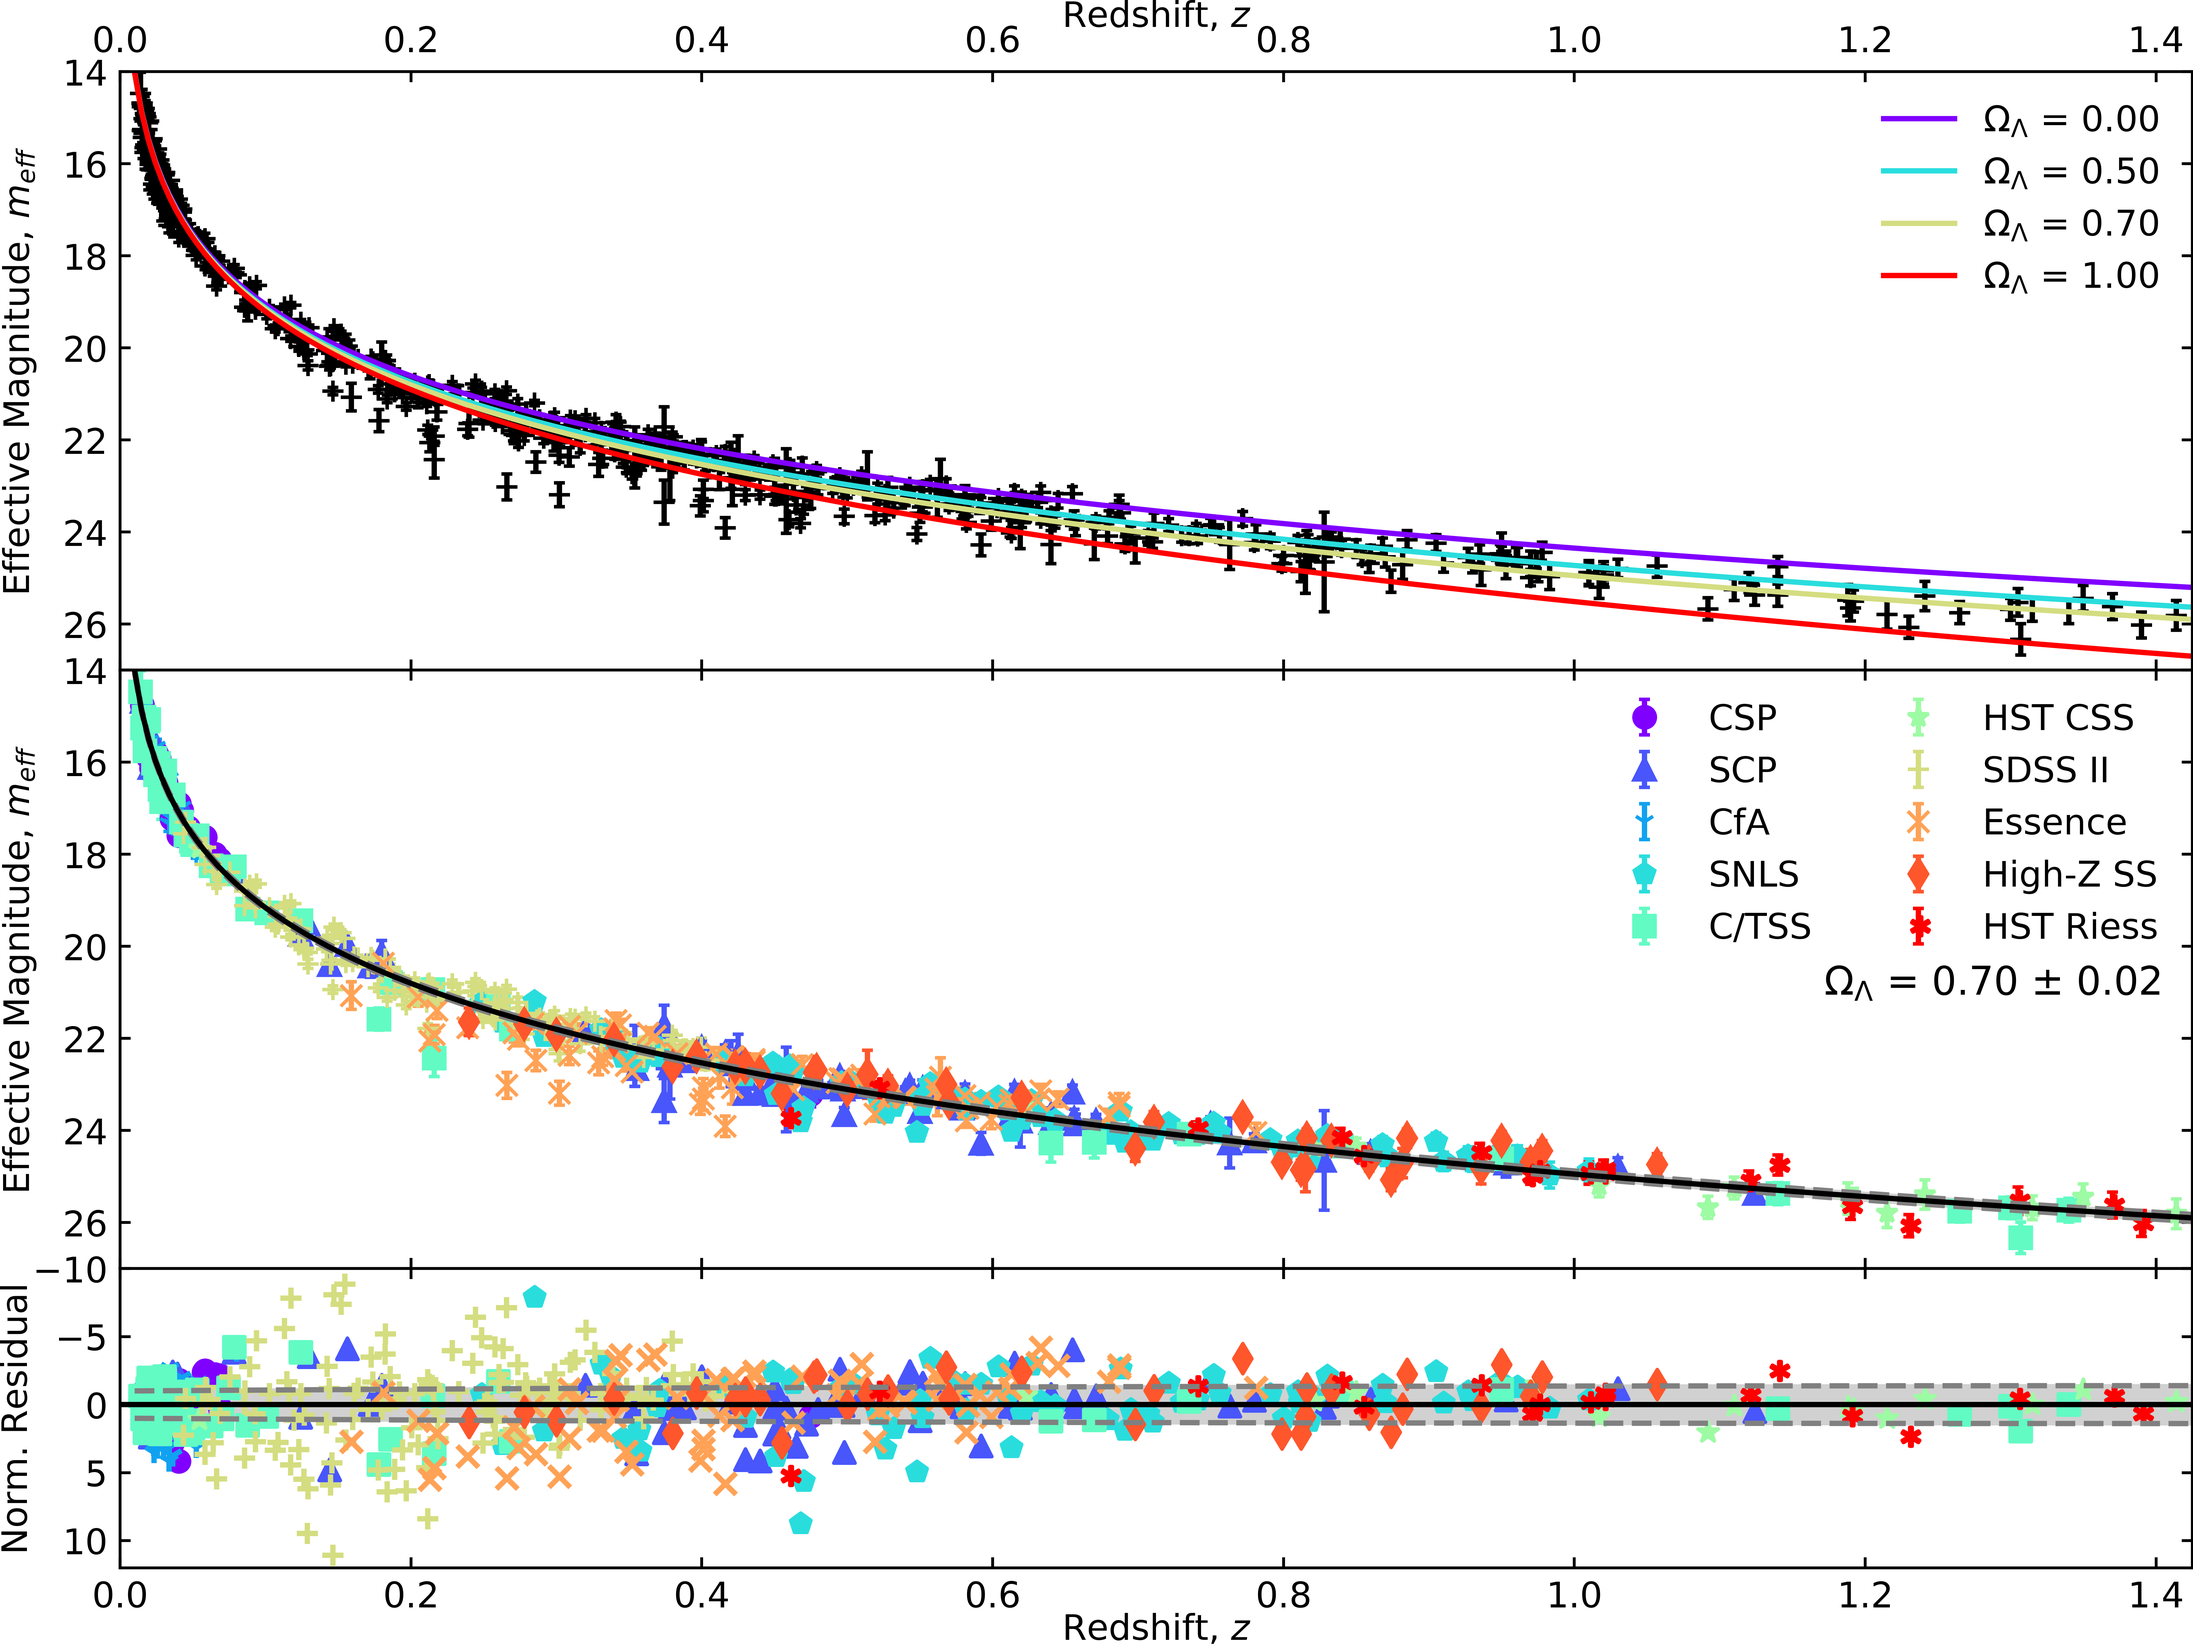
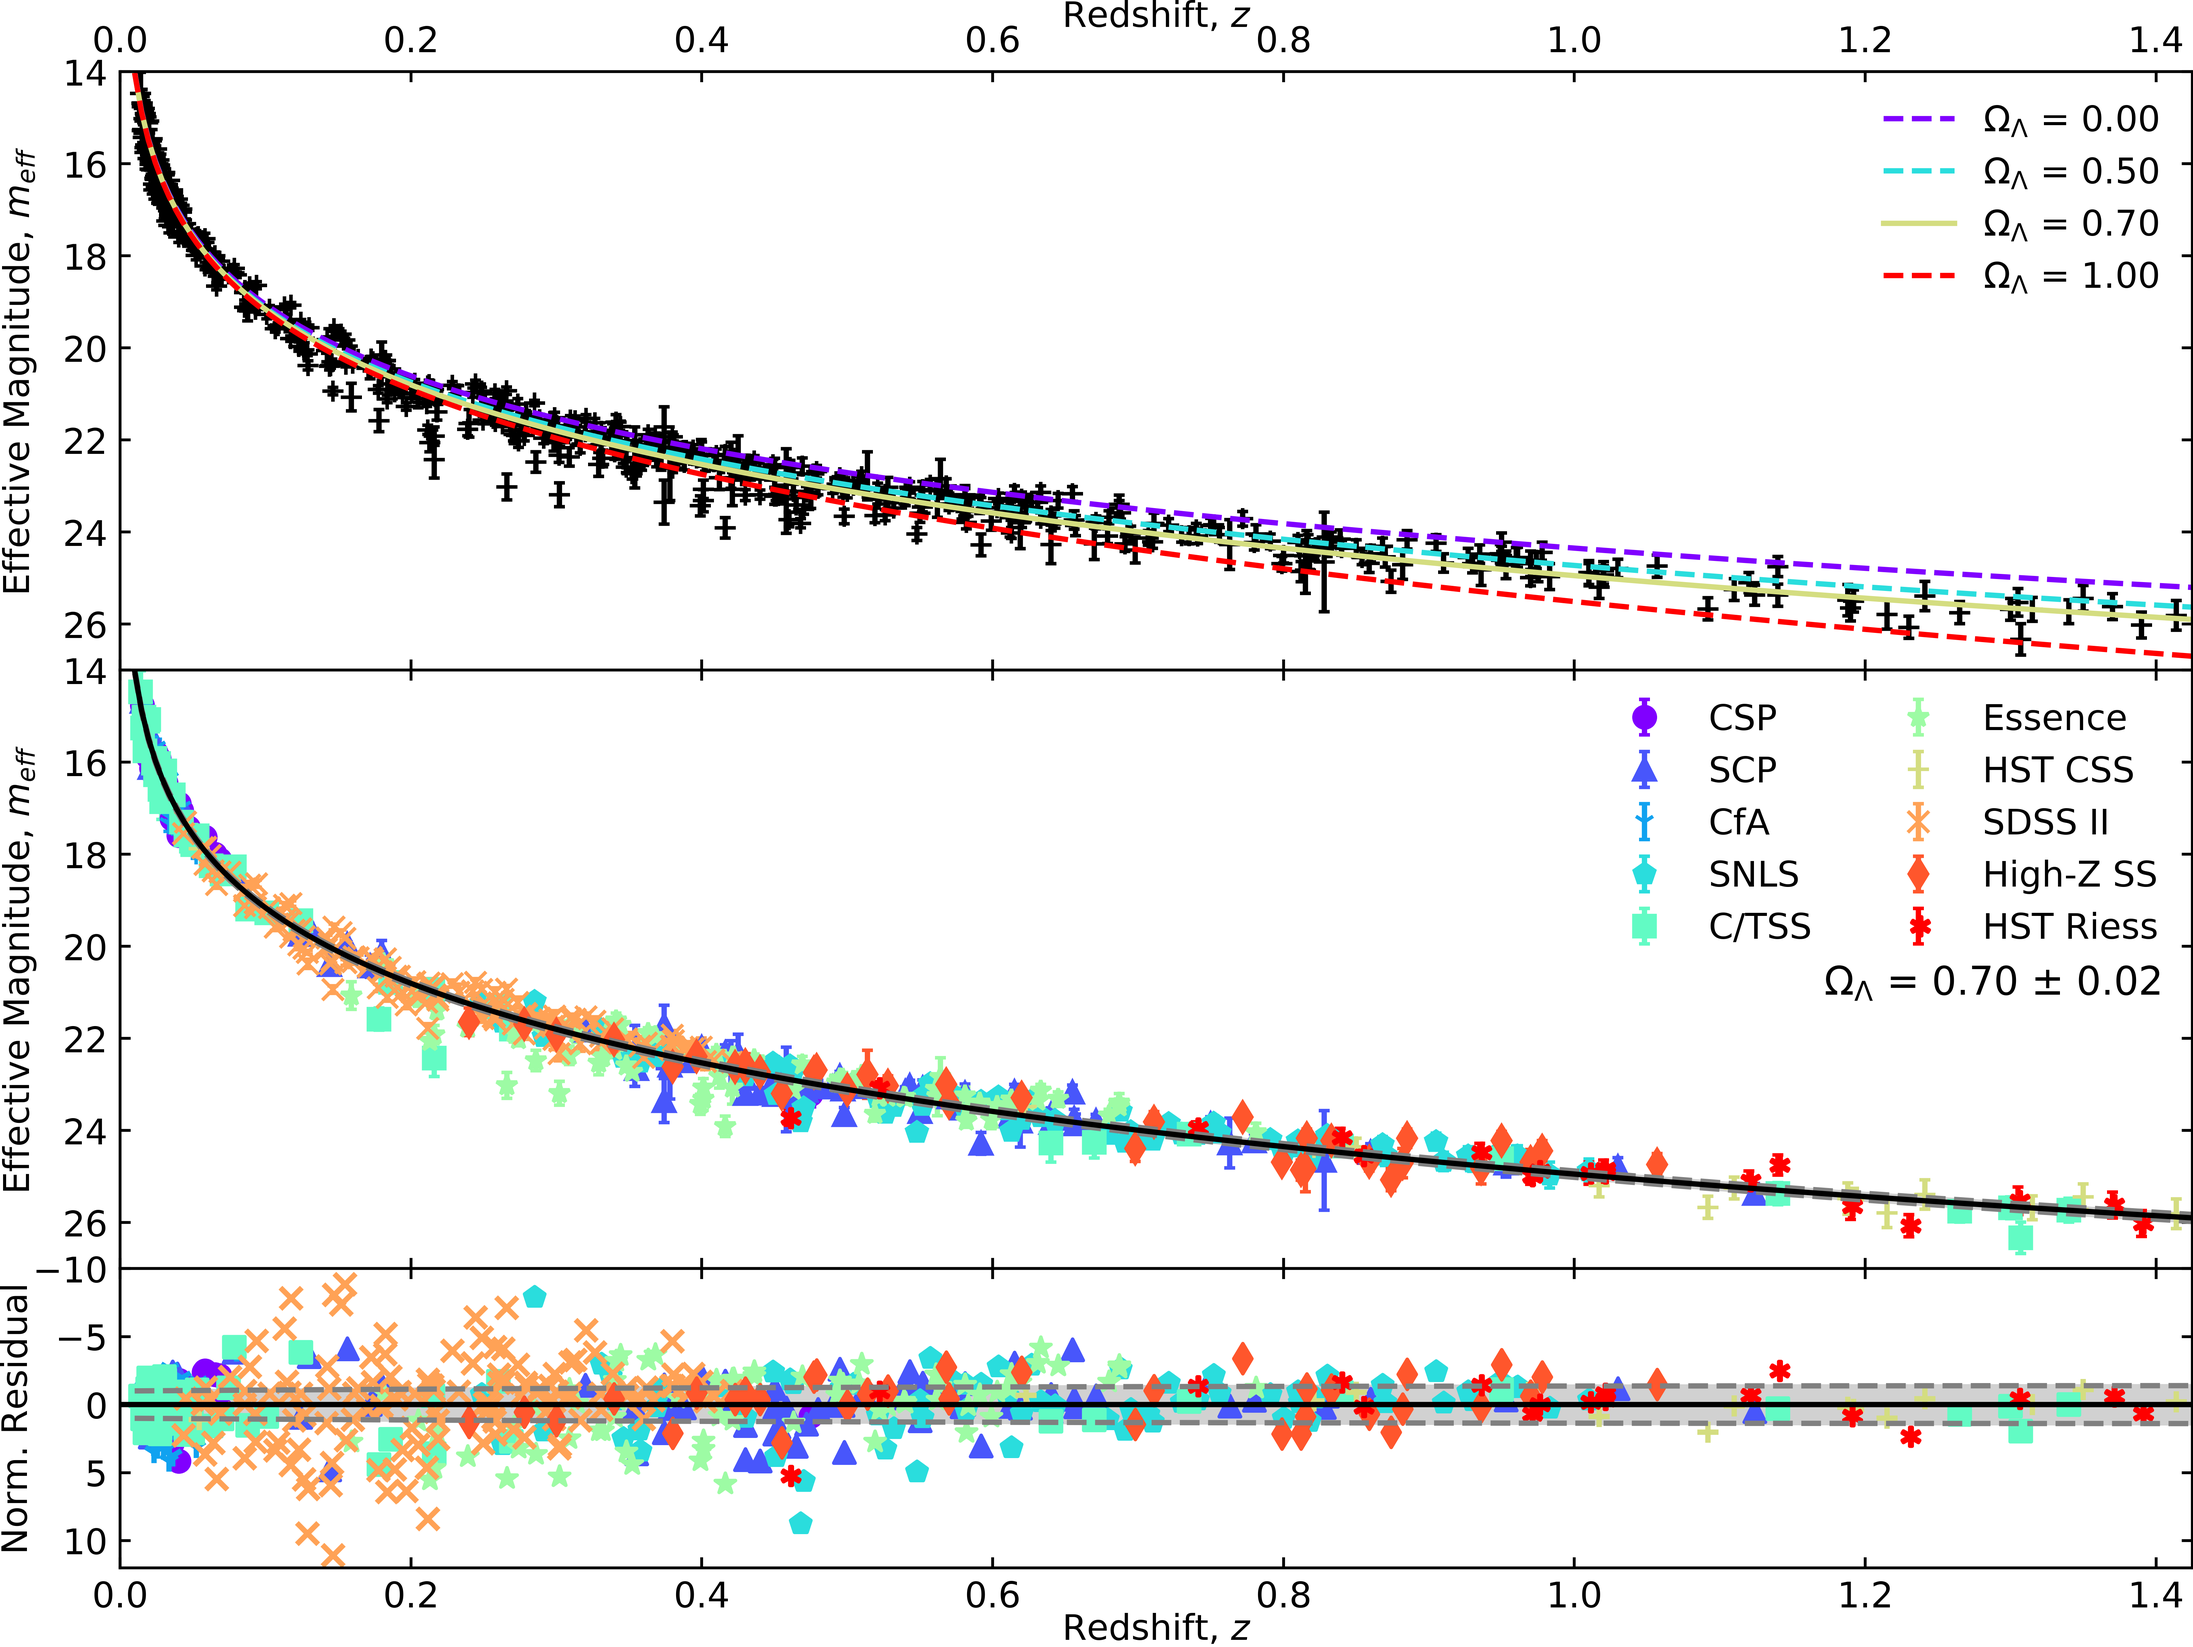
Graphing Code Added for Poster Publications.

diff --git a/k-essence_graph.py b/k-essence_graph.py
@@ -1,0 +1,120 @@
+import dill as pickle, numpy as np, matplotlib.pyplot as plt, matplotlib.cm as cm
+from textwrap import wrap
+
+RQ_starts = (6.55, 6.35)
+Qmin_start = 4.4
+RM_cross = (5.1, 2.1)
+QM_cross = (6.2, 1.3)
+Q_droptime = 0.09
+Q_initrng = (RQ_starts[0], 4.2)
+Q_enddrop = 0.05
+
+padwidth = 0.25
+x_range = (0, 7.5)
+y_range = (0, 7)
+x_ticks=[[      1,       2,      3,        4,      5,        6,       7    ],
+         [r'10$^{30}$', '', r'10$^{20}$', '', r'10$^{10}$', '', r'10$^{0}$']]
+y_ticks=[[      1,       2,      3,        4,      5,        6,       7    ],
+         [r'10$^{0}$', '', r'10$^{40}$', '', r'10$^{80}$', '', r'10$^{120}$']]
+
+
+
+######## Code ########
+def label_line(line, ax, label, x, y, color='black', size=12):
+    xdata, ydata = line.get_data()
+    x1 = xdata[0]
+    x2 = xdata[-1]
+    y1 = ydata[0]
+    y2 = ydata[-1]
+
+    #ax = line.get_axes()
+    text = ax.annotate(label, xy=(x, y), xytext=(-10, 0),
+                       textcoords='offset points',
+                       size=size, color=color,
+                       horizontalalignment='center',
+                       verticalalignment='center')
+
+    sp1 = ax.transData.transform_point((x1, y1))
+    sp2 = ax.transData.transform_point((x2, y2))
+
+    rise = (sp2[1] - sp1[1])
+    run = (sp2[0] - sp1[0])
+
+    slope_degrees = np.degrees(np.arctan2(rise, run))
+    text.set_rotation(slope_degrees+180)
+    return text
+
+grad = lambda y2,y1,x2,x1: (y2-y1)/(x2-x1)
+model = lambda x,y2,y1,x2,x1: (x-x1)*grad(y2,y1,x2,x1) + y1
+pad = padwidth/(2**0.5)
+centre = lambda y2,y1,x2,x1: (x1+(x2-x1)/2 + pad, y1+(y2-y1)/2 + pad)
+angle = lambda y2,y1,x2,x1: np.rad2deg(np.arctan(grad(y2,y1,x2,x1)**-1))
+
+R_model = lambda x: model(x, RM_cross[1],RQ_starts[0],RM_cross[0],0.0)
+M_model = lambda x: model(x, QM_cross[1],RM_cross[1],QM_cross[0],RM_cross[0])
+Q_pmodel = lambda x: x*grad(RM_cross[1],RQ_starts[0],RM_cross[0],0.0) + RQ_starts[1]
+Q_attrxcrd = (Q_initrng[1] - RQ_starts[1])/grad(RM_cross[1],RQ_starts[0],RM_cross[0],0.0)
+
+x = np.linspace(x_range[0], x_range[1], 10)
+R, M = R_model(x), M_model(x)
+Q_xs = [x_range[0], RM_cross[0], RM_cross[0]+Q_droptime, x_range[1]]
+Q_ys = [Q_pmodel(x_range[0]), Q_pmodel(RM_cross[0]), QM_cross[1], QM_cross[1]-Q_enddrop]
+
+R_arrw = [RM_cross[1] + pad, RQ_starts[0], RM_cross[0], x_range[0] + pad] # [y2, y1, x2, x1].
+M_arrw = [QM_cross[1] + pad, RM_cross[1] + pad, QM_cross[0], RM_cross[0]] # [y2, y1, x2, x1].
+Q_arrw = [Q_ys[-1] + pad + Q_enddrop, QM_cross[1] + pad, x_range[1], QM_cross[0]]
+
+R_centre, R_angle = centre(*R_arrw), angle(*R_arrw)
+M_centre, M_angle = centre(*M_arrw), angle(*M_arrw)
+Q_centre, Q_angle = centre(*Q_arrw), angle(*Q_arrw)
+
+
+
+fig = plt.figure(figsize=(9,6.5))
+ax1 = fig.add_subplot(111)  # Add axes on top half of the vertical.
+
+ax1.plot(x, M, ls='-.', zorder=1, c='green', label=r'Matter, $M$')
+ax1.plot(x, R, ls='--', zorder=1, c='orange', label=r'Radiation, $\gamma$')
+ax1.plot(Q_xs, Q_ys, ls='-', zorder=2, c='blue', label=r'k-essence, $Q$')
+ax1.fill_between([x_range[0], Q_attrxcrd],
+                 Q_initrng, [Q_initrng[1], Q_initrng[1]],
+                 zorder=0, color='lightblue')
+ax1.legend(loc='upper right', bbox_to_anchor=(0.99, 0.99), frameon=False,
+           prop={'size': 13})
+
+bbox = {'fc': '0.8', 'pad': 0}
+props = {'ha': 'center', 'va': 'center'}#, 'bbox': bbox}
+ax1.annotate('', xytext=(R_arrw[3], R_arrw[1]), xy=(R_arrw[2], R_arrw[0]),
+             xycoords='data', textcoords='data',
+             arrowprops={'arrowstyle': '<->', 'color':'orange'})
+Im_line, = ax1.plot(R_arrw[2:], R_arrw[:2], alpha=0)
+label_line(Im_line, ax1, 'Radiation Dominant', *R_centre, color='orange', size=12)
+
+ax1.annotate('', xytext=(M_arrw[3], M_arrw[1]), xy=(M_arrw[2], M_arrw[0]),
+             xycoords='data', textcoords='data',
+             arrowprops={'arrowstyle': '<->', 'color':'green'})
+Im_line, = ax1.plot(M_arrw[2:], M_arrw[:2], alpha=0)
+label_line(Im_line, ax1, 'M Dominant', *M_centre, color='green', size=12)
+
+ax1.annotate('', xytext=(Q_arrw[3], Q_arrw[1]), xy=(Q_arrw[2], Q_arrw[0]),
+             xycoords='data', textcoords='data',
+             arrowprops={'arrowstyle': '<->', 'color':'blue'})
+Im_line, = ax1.plot(Q_arrw[2:], Q_arrw[:2], alpha=0)
+label_line(Im_line, ax1, 'Q Dominant', *Q_centre, color='blue', size=12)
+
+ax1.set_xlim(x_range)
+ax1.set_xticks(x_ticks[0])
+ax1.set_xticklabels(x_ticks[1])
+ax1.set_ylim(y_range)
+ax1.set_yticks(y_ticks[0])
+ax1.set_yticklabels(y_ticks[1])
+
+ax1.set_xlabel(r'Redshift, $z + 1$')#, labelpad=-0.6)
+ax1.set_ylabel(r'Energy Density, $\rho$ (eV$\cdot$mm$^{-3}$)')#, labelpad=-0.5)
+label = r'$Q$ Inital Conditions'
+ax1.text(0.05, 4.25, label, fontsize=11, color='blue')
+
+fig.patch.set_alpha(0.0)
+fig.savefig('poster_k-essence_graph.png', format='png', bbox_inches='tight',
+            pad_inches=0, dpi = 750)
+plt.show()

diff --git a/Milestone.py b/Milestone.py
@@ -4,6 +4,7 @@ import matplotlib.pyplot as pyplot
 import matplotlib.cm as cm
 import scipy, tkinter
 from Milestone_imports_alldata import * #Use Milestone_imports for small sample data, use Milestone_imports_alldata for all Union2.1 data.
+save_data = False
 
 ################################## Find L_peak #################################
 print('\n'+'-'*39+' Find Peak Luminosity '+'-'*39+'\n')
@@ -125,12 +126,12 @@ kwargs = {'y_err':data['m_err'], 'x_label':r'Redshift, ($z$)',
           'plot_line':model, 'err_kwargs':{'zorder':10}, 'zorder':10}
 Graph2 = ({'pos':211, 'sharex':1, 'sharey':1}, data['z'], data['eff_m'], kwargs)
 
-#show_graphs(Graph1, Graph2,  main_title = r'High Redshift SNIa Data')
+#show_graphs(Graph1,; Graph2,  main_title = r'High Redshift SNIa Data')
+if save_data == True:
+    import dill as pickle
+    all_graphing_data = {'lz_arr' : lz_arr, 'hz_arr' : hz_arr, 'all_arr' : data,
+                         'Om_cc2mag' : Om_cc2mag, 'Lp' : Lp, 'Lp_err' : Lp_err,  #Om_cc2mag(Om_cc {float}, z {array/float}, Lp {float})
+                          'Om_cc' : Om_cc, 'Om_cc_err' : Om_cc_err}
 
-import dill as pickle
-all_graphing_data = {'lz_arr' : lz_arr, 'hz_arr' : hz_arr, 'all_arr' : data,
-                     'Om_cc2mag' : Om_cc2mag, 'Lp' : Lp, 'Lp_err' : Lp_err,  #Om_cc2mag(Om_cc {float}, z {array/float}, Lp {float})
-                      'Om_cc' : Om_cc, 'Om_cc_err' : Om_cc_err} 
-
-pickle.dump(all_graphing_data, open("graphing_data.p", "wb" ))
-print('Graphing Data Saved')
+    pickle.dump(all_graphing_data, open("graphing_data.p", "wb" ))
+    print('Graphing Data Saved')

diff --git a/poster_further_research_graphing.py b/poster_further_research_graphing.py
@@ -33,9 +33,7 @@ colours = iter(cm.rainbow(np.linspace(0, 1, len(Om_cc_values))))
 for n, iOm_cc in enumerate(Om_cc_values):
     ieff_m = Om_cc2mag(iOm_cc, model_z, Lp)
     label = r'$\Omega_{{\Lambda}}$ = {:.2f}'.format(iOm_cc)
-    if iOm_cc == Om_cc: line_style = '-'
-    else: line_style = '--'
-    ax1.plot(model_z, ieff_m, c=next(colours), label = label, zorder=1, ls=line_style)
+    ax1.plot(model_z, ieff_m, c=next(colours), label = label, zorder=1)
 ax1.errorbar(all_arr['z'], all_arr['eff_m'], yerr=all_arr['m_err'], ls='',
              marker='+', capsize=1.5, c='black', zorder=0)
 ax1.legend(loc='upper right', bbox_to_anchor=(0.999, 0.999), frameon=False)
@@ -108,4 +106,4 @@ ax3.invert_yaxis()
 fig.patch.set_alpha(0.0)
 fig.savefig('poster_graph.png', format='png', bbox_inches='tight',
             pad_inches=0, dpi = 750)
-plt.show()
+#plt.show()

diff --git a/Milestone_imports_alldata.py b/Milestone_imports_alldata.py
@@ -30,7 +30,6 @@ data = data[np.argsort(data['z'])]
 data['m_err'] = data['m_err']*2
 data_lz = data[np.where(data['z'] < 0.1)]
 data_hz = data[np.where(data['z'] >= 0.1)]
-print(data_hz)
 
 ### Mathematical Functions ###
 def mag2flux(eff_m):
